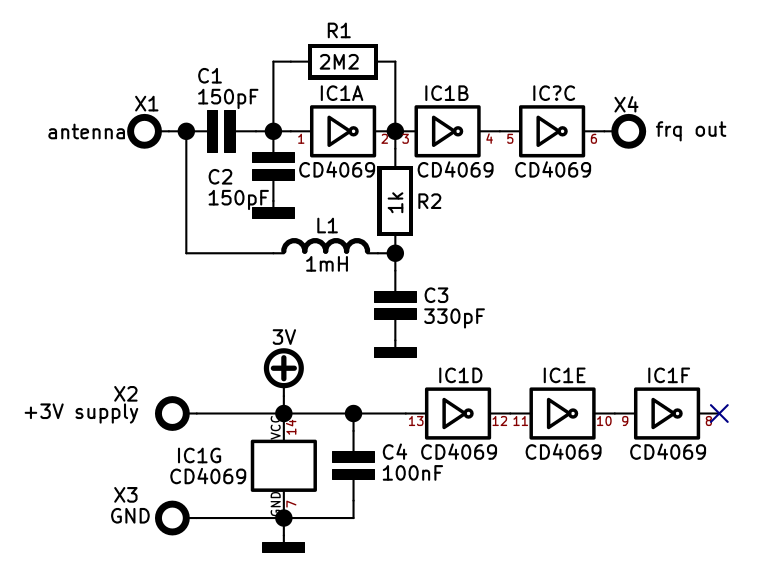
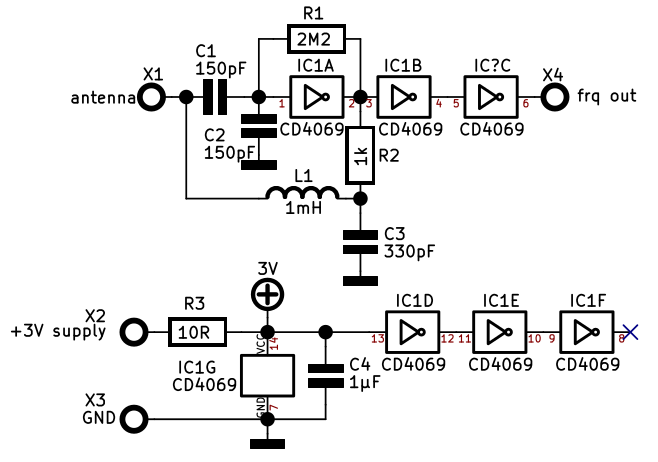
10R/1uF Input Filter

Changed region(s): [[0.0, 0.0, 0.9726, 0.9697]]

diff --git a/README.md b/README.md
@@ -28,15 +28,16 @@ The oscillators can be built up on a breadboard:
 ![tinnitus](pics/tinnitus_osc_pcb_thd.png "tinnitus oscillator built on a breadboard")
 
 ### Bill of material
-| Component     | Pitch        | Volume       | Price | Supplier   |
-| ------------- | ------------ | ------------ | ----- | ---------- |
-| C1            | 150pF         | 180pF        | 0.05$ | [m](http://www.mouser.com), [f](http://www.farnell.com), [d](http://www.digikey.com) |
-| C2            | 150pF        | 180pF        | 0.05$ | [m](http://www.mouser.com), [f](http://www.farnell.com), [d](http://www.digikey.com) |
-| C3            | 330pF        | 390pF        | 0.05$ | [m](http://www.mouser.com), [f](http://www.farnell.com), [d](http://www.digikey.com) |
-| C4            | 100nF        | 100nF        | 0.05$ | [m](http://www.mouser.com), [f](http://www.farnell.com), [d](http://www.digikey.com) |
-| R1            | 2M2          | 2M2          | 0.05$ | [m](http://www.mouser.com), [f](http://www.farnell.com), [d](http://www.digikey.com) |
-| R2            | 1k           | 1k           | 0.05$ | [m](http://www.mouser.com), [f](http://www.farnell.com), [d](http://www.digikey.com) |
-| IC            | CD4069UBE | CD4069UBE | 0.48$ | [m](http://www.mouser.com), [f](http://www.farnell.com), [d](http://www.digikey.com) |
+| Component     | Pitch        | Volume       | Price |
+| ------------- | ------------ | ------------ | ----- |
+| C1            | 150pF        | 180pF        | 0.05$ |
+| C2            | 150pF        | 180pF        | 0.05$ |
+| C3            | 330pF        | 390pF        | 0.05$ |
+| C4            | 1µF          | 1µF          | 0.05$ |
+| R1            | 2M2          | 2M2          | 0.05$ |
+| R2            | 1k           | 1k           | 0.05$ |
+| R3            | 10R          | 10R          | 0.05$ |
+| IC1           | CD4069UBE    | CD4069UBE    | 0.48$ |
 
 **Suppliers:**
 m: www.mouser.com
